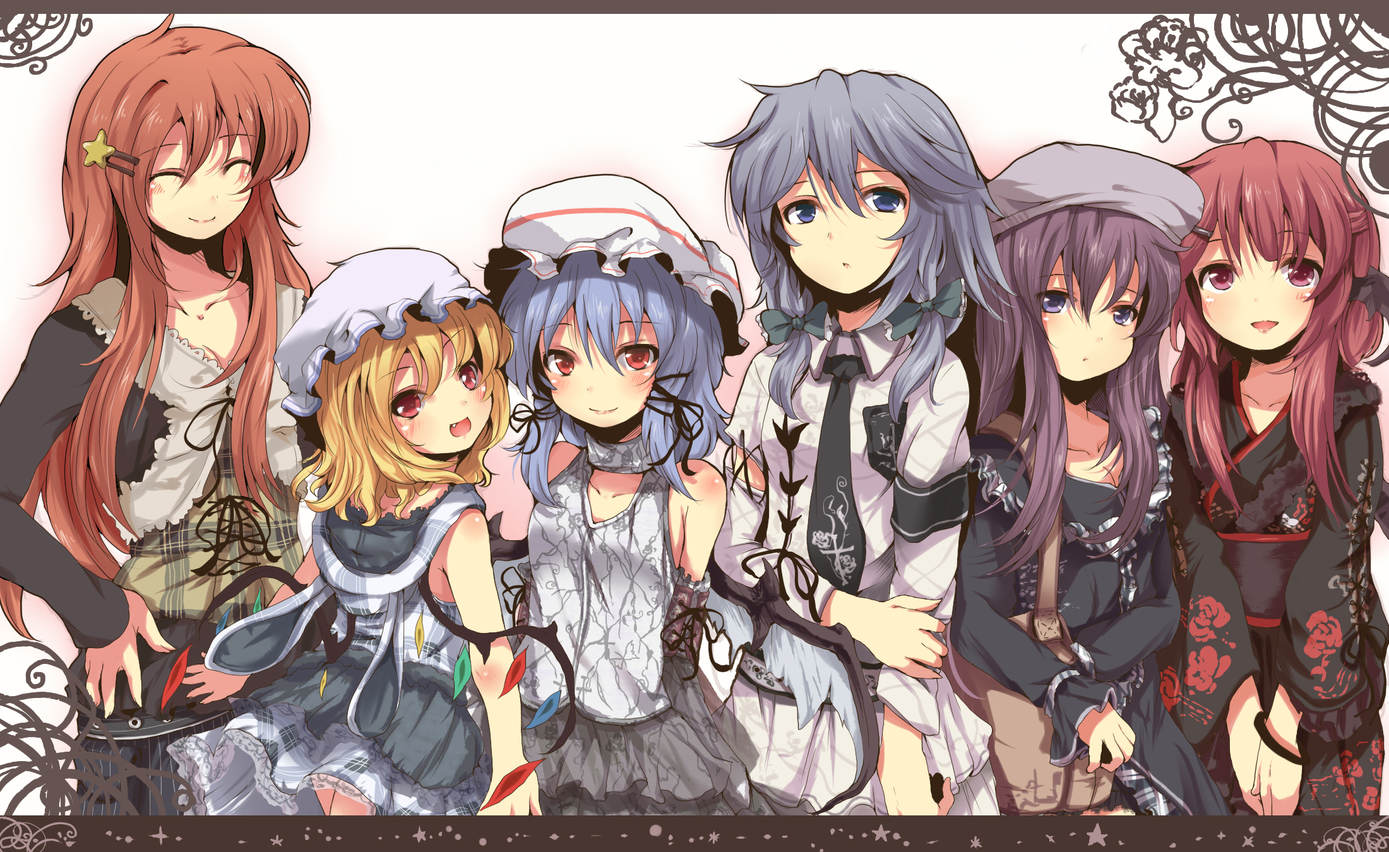
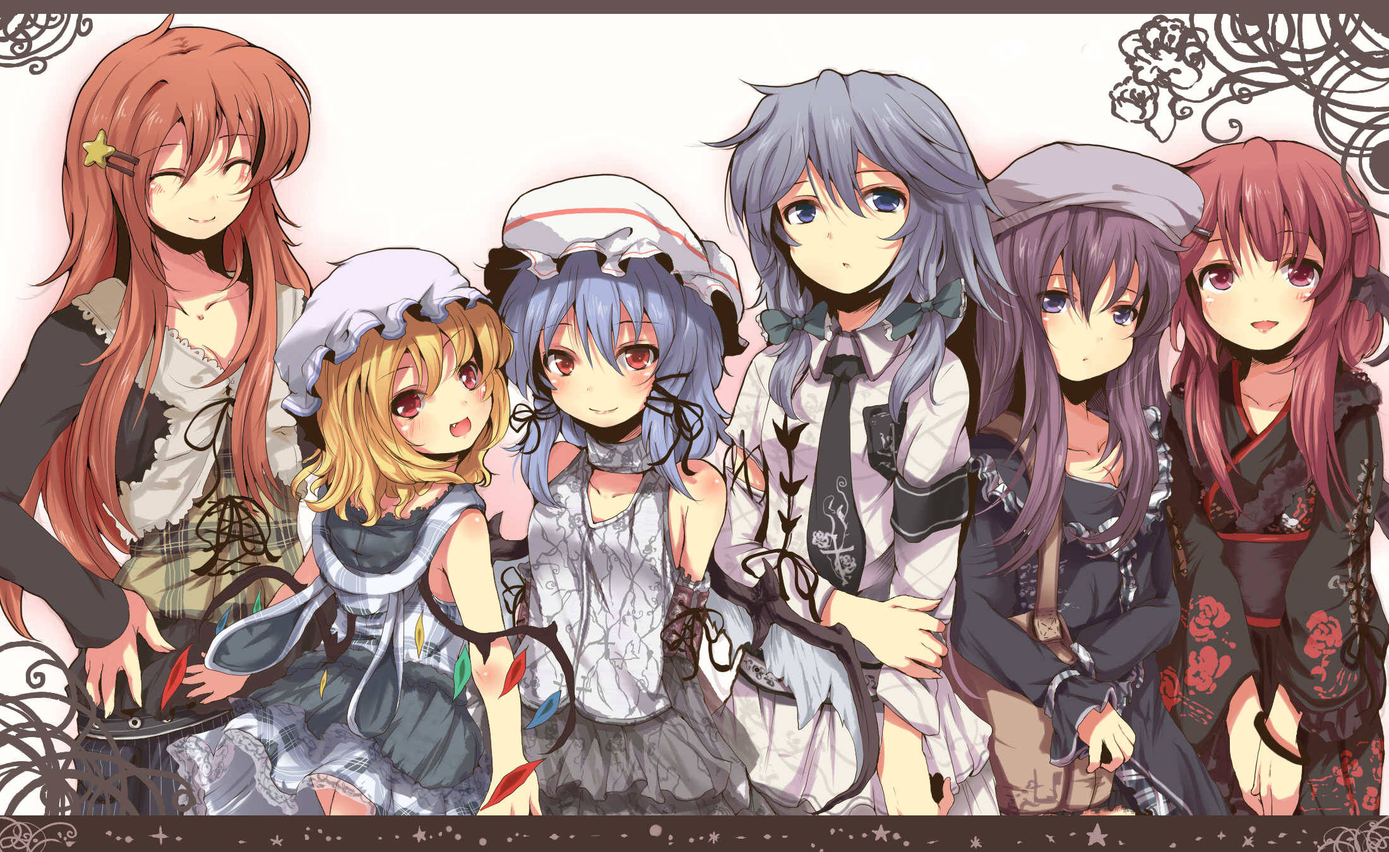
update source

diff --git a/404.html b/404.html
@@ -3,7 +3,7 @@ layout: page
 title: Oops...404 not found
 description: "404 page"
 image:
-  feature: 49018748_p0.png
+  feature: 49018748_p0.jpg
   credit: 休み | NEKO♨甲 [pixiv] 
   creditlin: http://www.pixiv.net/member_illust.php?mode=medium&illust_id=49018748
 share: false

diff --git a/_layouts/category_index.html b/_layouts/category_index.html
@@ -3,7 +3,7 @@ layout: post-index
 title: Category
 comments: false
 image:
-  feature: 46599808_p0.png
+  feature: 46599808_p0.jpg
   credit: Fate セイバー | nissa [pixiv] 
   creditlink: http://www.pixiv.net/member_illust.php?mode=medium&illust_id=46599808
 ---
